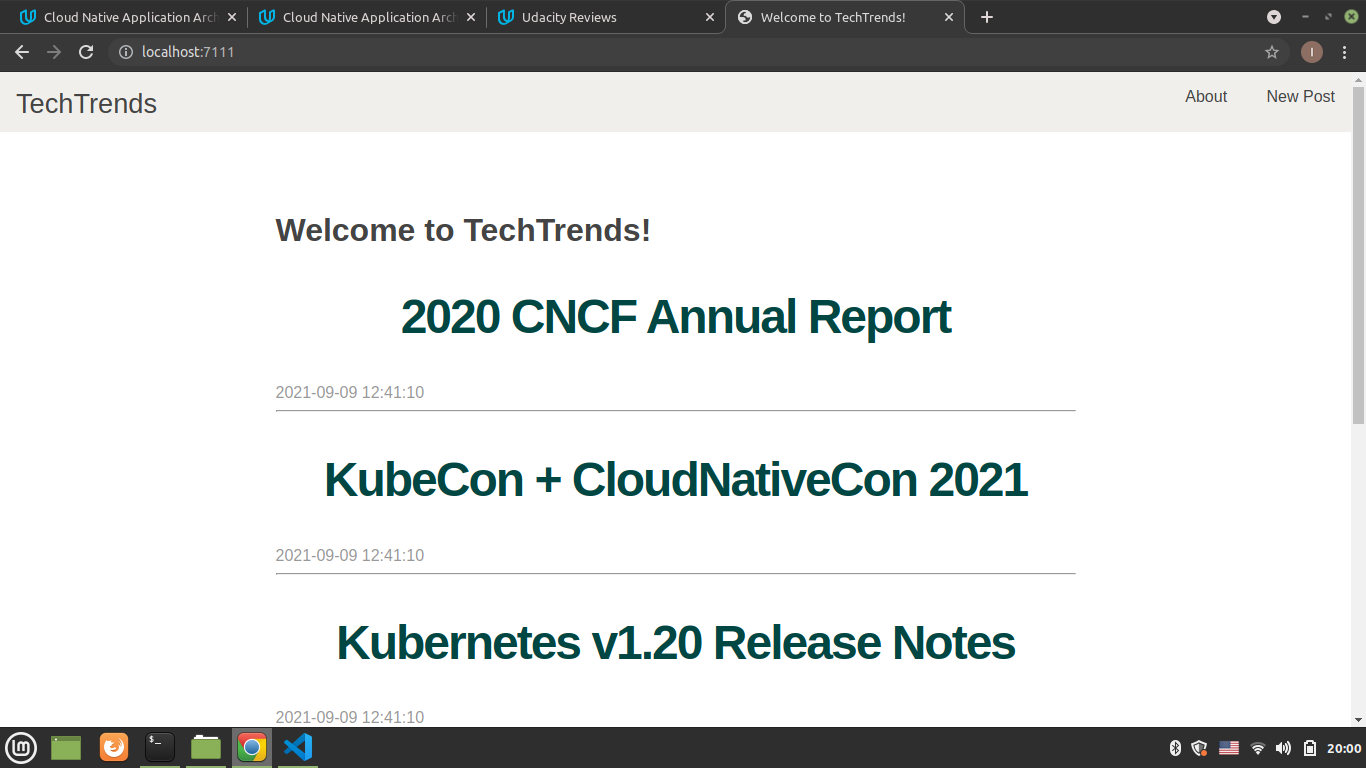
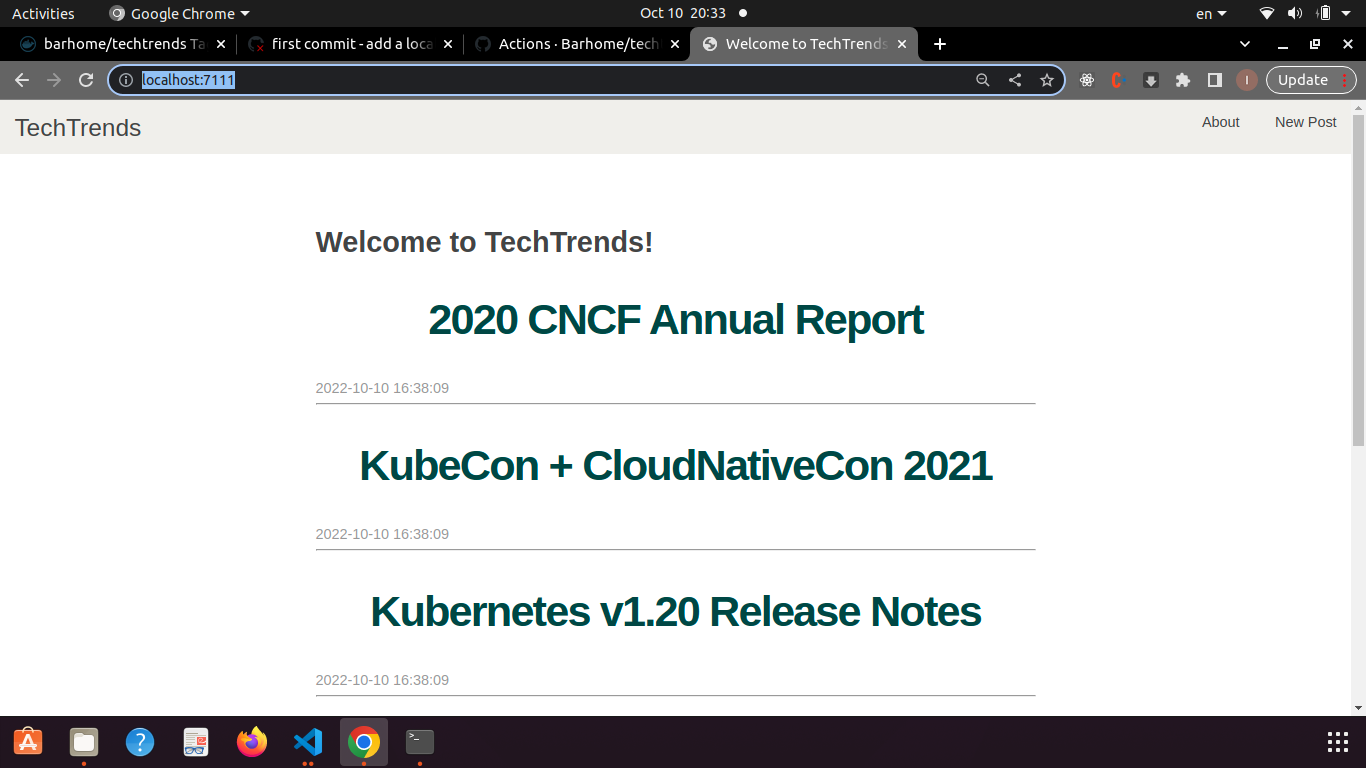
feat: reviewing my project to spin up a docker image and pushing it to dockerhub , updating Continuous Integration with Github actions

diff --git a/README.md b/README.md
@@ -1,0 +1,39 @@
+## Packaging Docker Application
+
+- Change your directory to /techtrends where the Dockerfile is located
+
+- run the command `docker build -t techtrends .` to spin up a docker container
+
+- to run docker container in a detached mode and on port 7111 on your host run the command `docker run -d -p 7111:3111 techtrends`
+
+- Test that the app is running on your host by hitting `http://localhost:7111/` in your browser
+
+## Here is a screenshot of the app running locally:
+
+![](screenshots/docker-run-local.png)
+
+# the docker logs command
+
+- get the container ID by running the command `docker ps`
+
+- retrieve the docker logs using container id c8633365188e by running the command `docker logs c8633365188e`
+
+- You will get the following logs:
+
+Serving Flask app "app" (lazy loading)
+Environment: production
+WARNING: This is a development server. Do not use it in a production deployment.
+Use a production WSGI server instead.
+Debug mode: off
+Monday, 10/Oct/2022 at, 18:31:49 PM \* Running on http://0.0.0.0:3111/ (Press CTRL+C to quit)
+Monday, 10/Oct/2022 at, 18:32:01 PM 172.17.0.1 - - [10/Oct/2022 18:32:01] "GET / HTTP/1.1" 200 -
+Monday, 10/Oct/2022 at, 18:32:01 PM 172.17.0.1 - - [10/Oct/2022 18:32:01] "GET /static/css/main.css HTTP/1.1" 200 -
+Monday, 10/Oct/2022 at, 18:32:01 PM 172.17.0.1 - - [10/Oct/2022 18:32:01] "GET /favicon.ico HTTP/1.1" 404 -
+Monday, 10/Oct/2022 at, 18:32:35 PM 172.17.0.1 - - [10/Oct/2022 18:32:35] "GET / HTTP/1.1" 200 -
+Monday, 10/Oct/2022 at, 18:36:43 PM The "About Us" page is retrieved
+Monday, 10/Oct/2022 at, 18:36:43 PM 172.17.0.1 - - [10/Oct/2022 18:36:43] "GET /about HTTP/1.1" 200 -
+Monday, 10/Oct/2022 at, 18:37:28 PM The "About Us" page is retrieved
+Monday, 10/Oct/2022 at, 18:37:28 PM 172.17.0.1 - - [10/Oct/2022 18:37:28] "GET /about HTTP/1.1" 200 -
+Monday, 10/Oct/2022 at, 18:38:57 PM 172.17.0.1 - - [10/Oct/2022 18:38:57] "GET /healthz HTTP/1.1" 200 -
+Monday, 10/Oct/2022 at, 18:45:16 PM 172.17.0.1 - - [10/Oct/2022 18:45:16] "GET /healthz HTTP/1.1" 200 -
+Monday, 10/Oct/2022 at, 18:45:19 PM 172.17.0.1 - - [10/Oct/2022 18:45:19] "GET /healthz HTTP/1.1" 200 -
